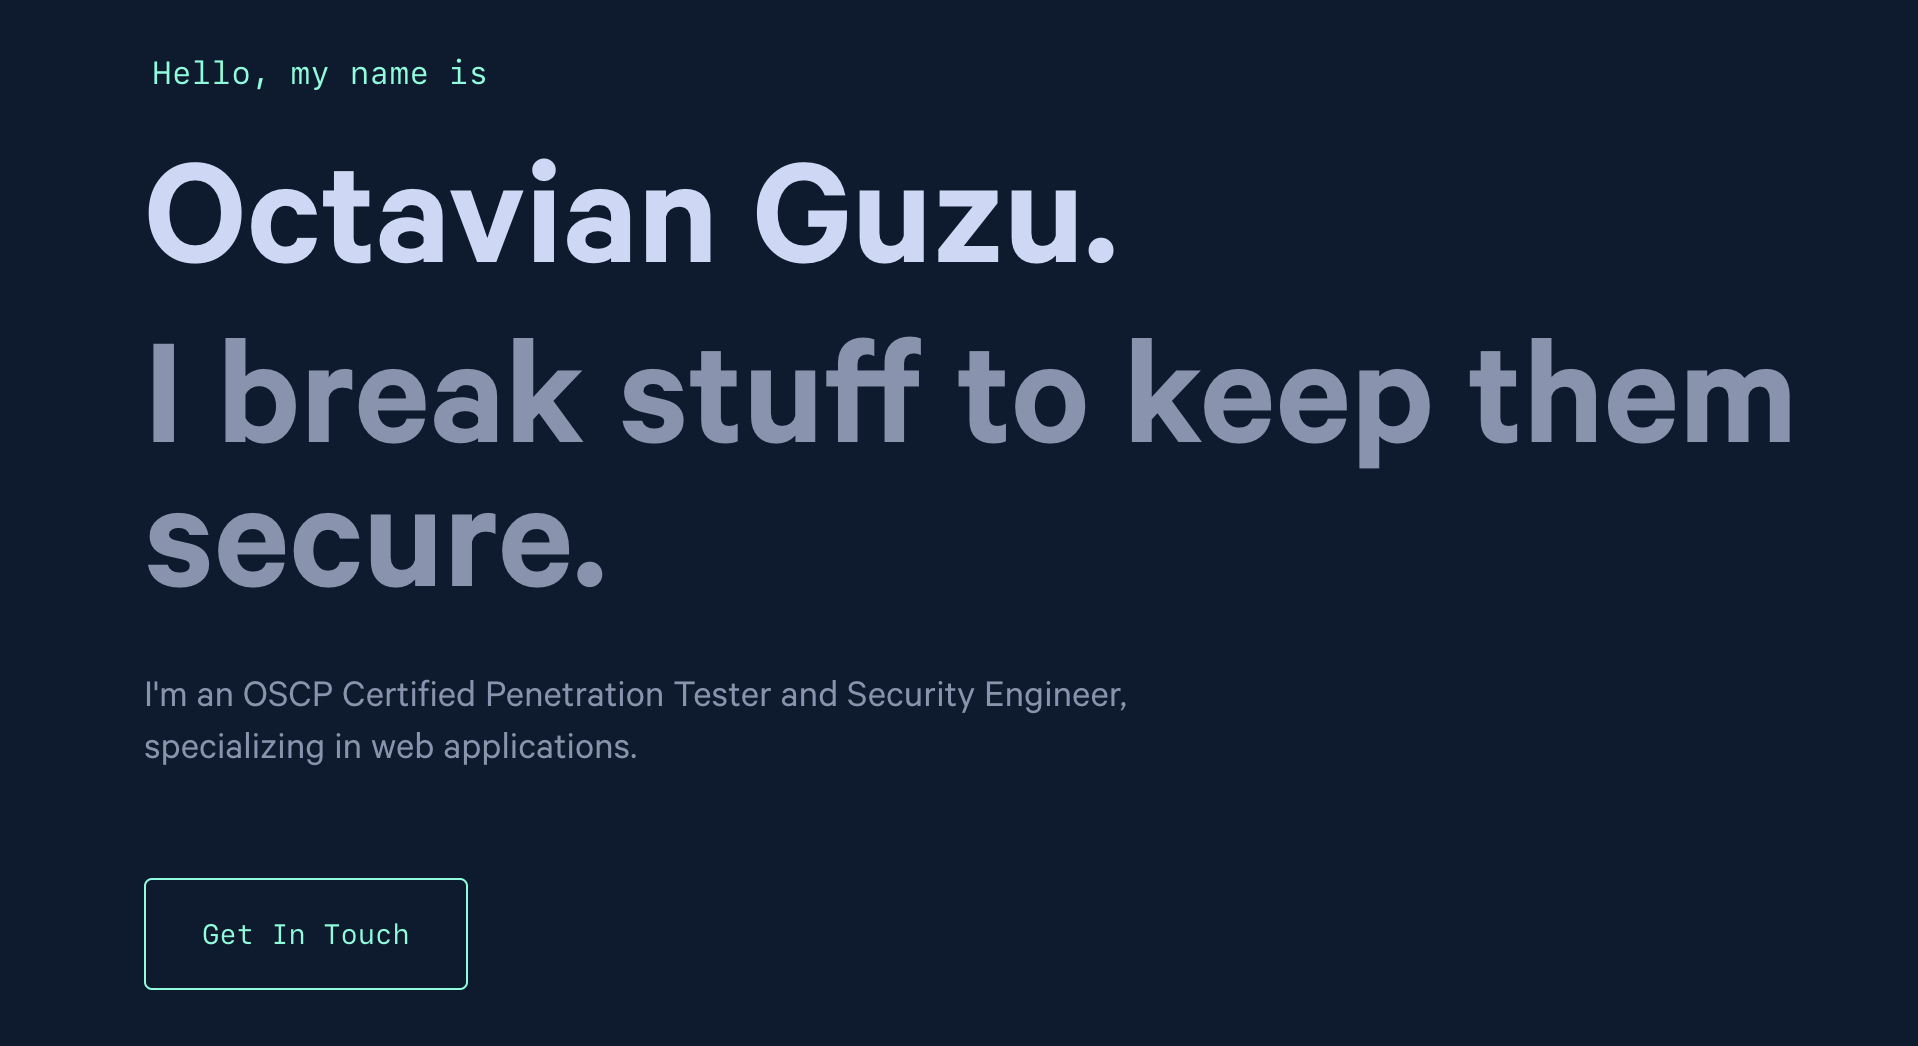
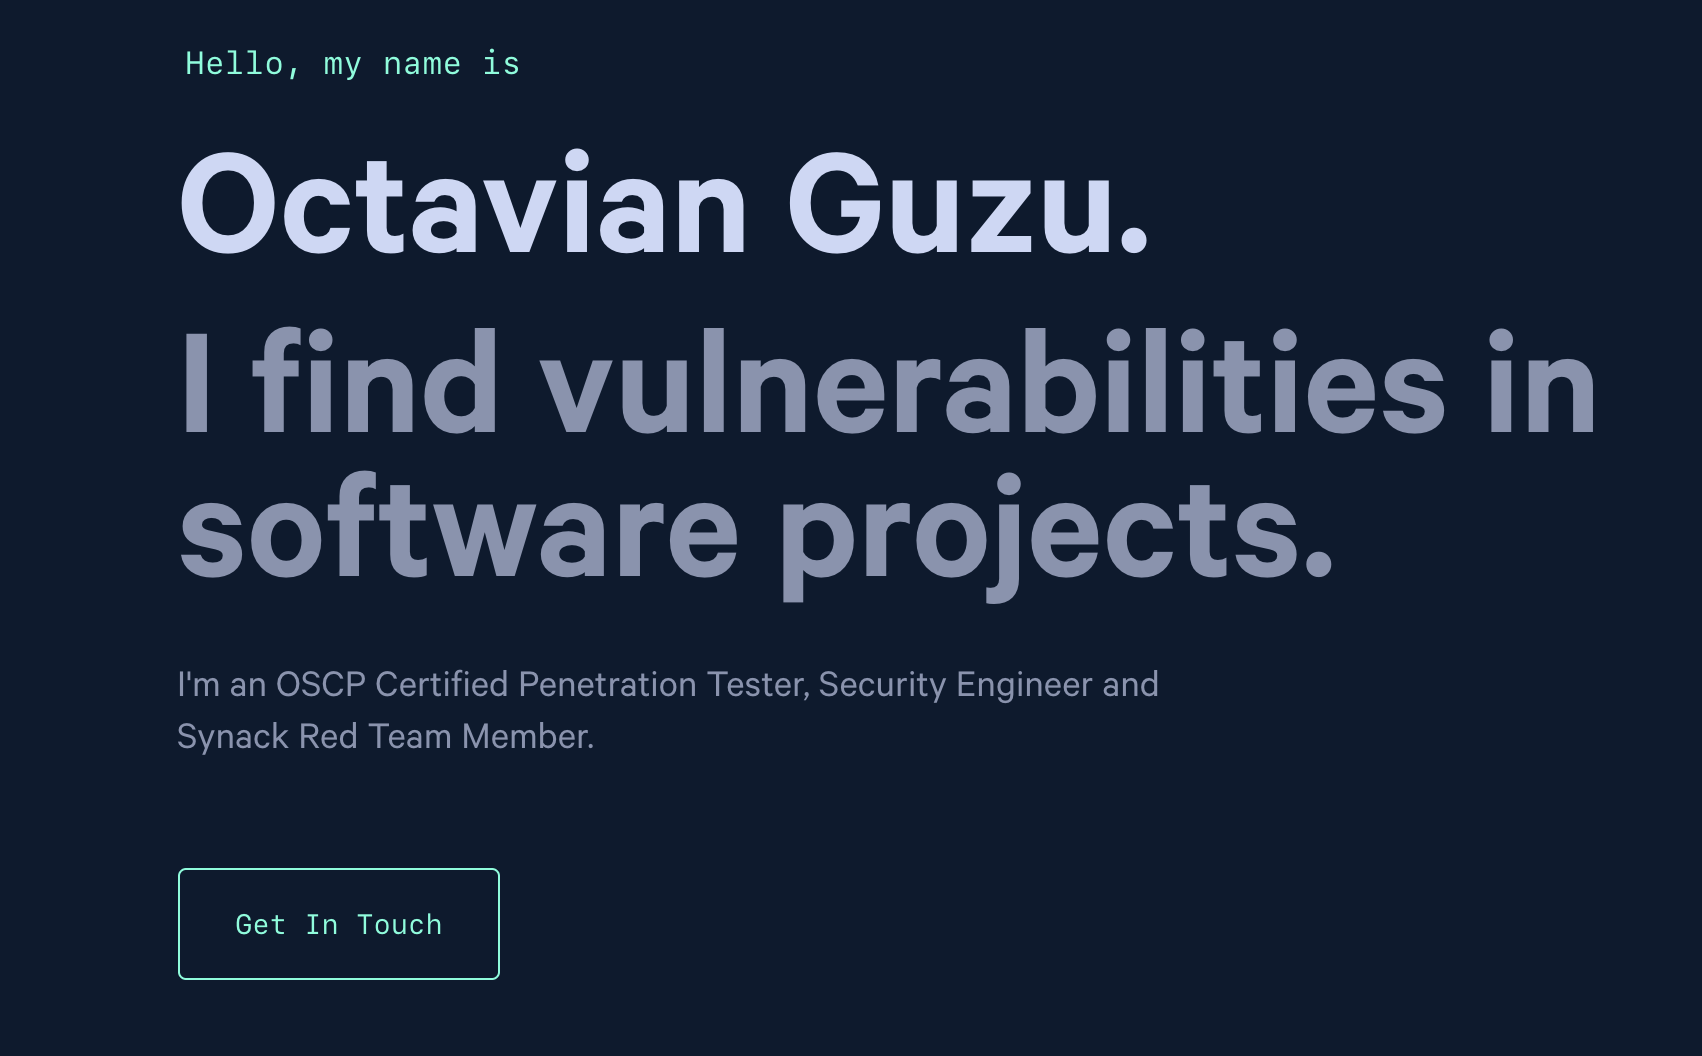
Hero update

diff --git a/src/components/sections/hero.js b/src/components/sections/hero.js
@@ -49,11 +49,9 @@ const Hero = () => {
 
   const one = <h1>Hello, my name is</h1>;
   const two = <h2 className="big-heading">Octavian Guzu.</h2>;
-  const three = <h3 className="big-heading">I break stuff to keep them secure.</h3>;
+  const three = <h3 className="big-heading">I find vulnerabilities in software projects.</h3>;
   const four = (
-    <p>
-      I'm an OSCP Certified Penetration Tester, Security Engineer and Synack Red Team Member.
-    </p>
+    <p>I'm an OSCP Certified Penetration Tester, Security Engineer and Synack Red Team Member.</p>
   );
   const five = (
     <a href={`mailto:${email}`} className="email-link">

diff --git a/gatsby-config.js b/gatsby-config.js
@@ -2,9 +2,9 @@ const config = require('./src/config');
 
 module.exports = {
   siteMetadata: {
-    title: 'Octavian Guzu',
+    title: 'Octavian Guzu | Personal Website',
     description: 'Octavian Guzu is an OSCP Certified Penetration Tester and Security Engineer.',
-    siteUrl: 'https://octavguzu.com', // No trailing slash allowed!
+    siteUrl: 'https://octavainguzu.com', // No trailing slash allowed!
     image: '/og.png', // Path to your image you placed in the 'static' folder
     twitterUsername: '@GuzuOctavian',
   },
